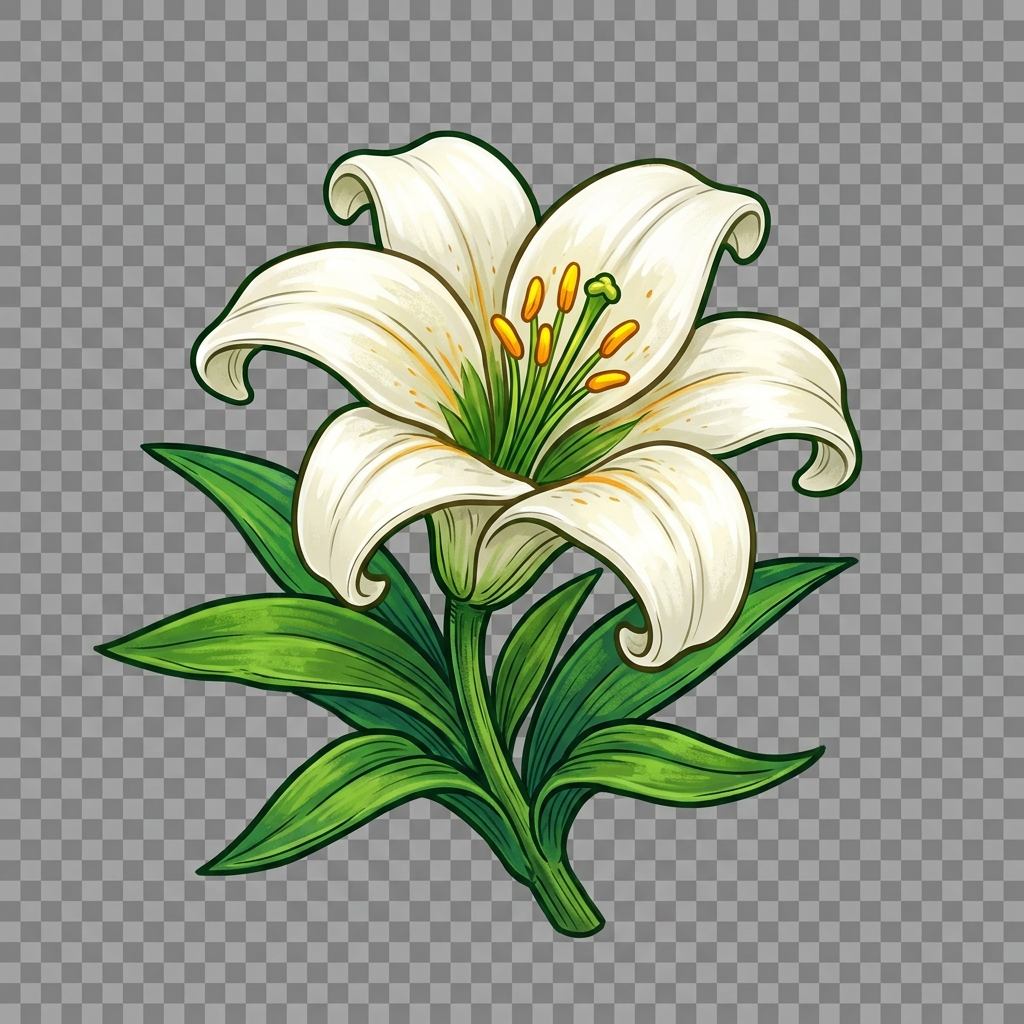
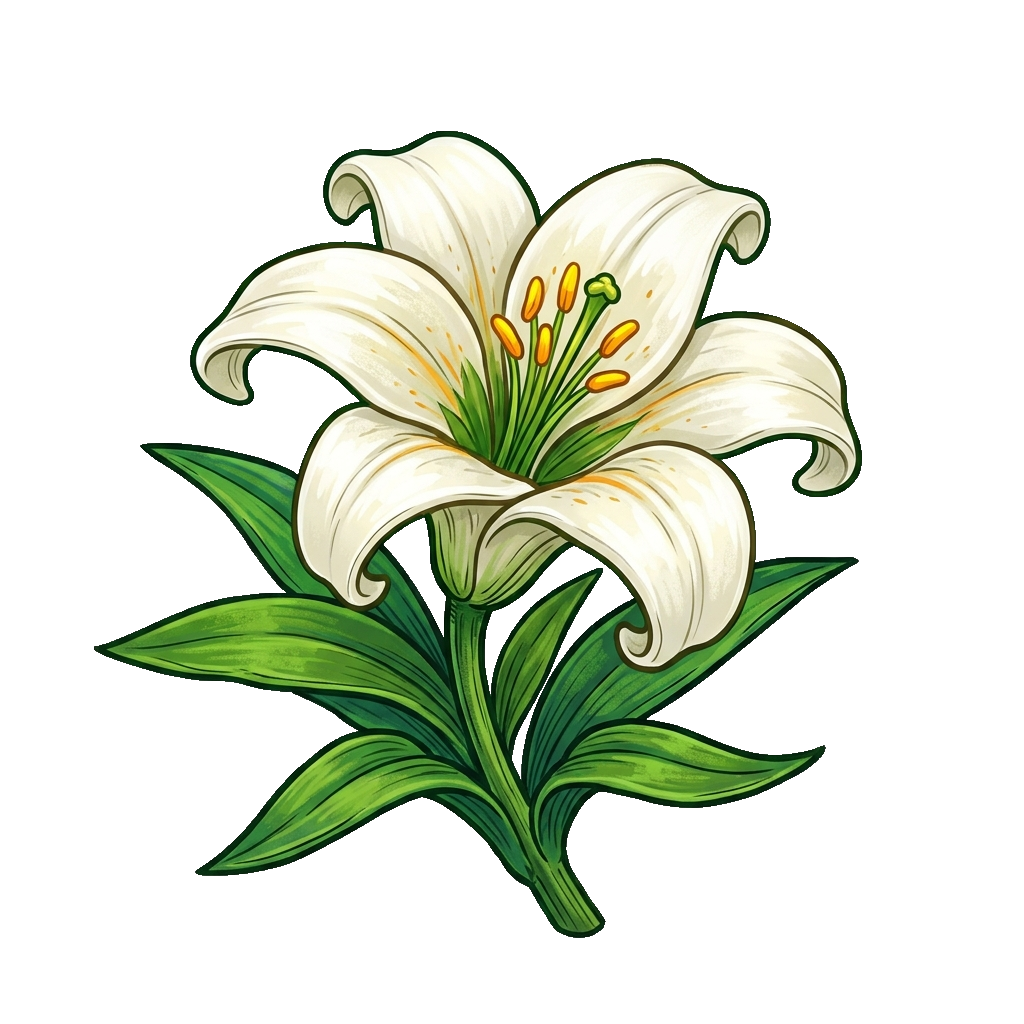
Update Farm UI for EasyM and new Forex assets

diff --git a/src/components/farm-hud.tsx b/src/components/farm-hud.tsx
@@ -80,6 +80,7 @@ type FarmHudProps = {
     todayClosedLots: number;
     dailyMaxDrawdown: number;
     isShaking?: boolean;
+    systemCode?: string;
     onClick?: () => void;
 };
 
@@ -99,6 +100,7 @@ export default function FarmHud({
     todayClosedLots,
     dailyMaxDrawdown,
     isShaking = false,
+    systemCode,
     onClick,
 }: FarmHudProps) {
     const [time, setTime] = useState<Date | null>(null);
@@ -271,7 +273,7 @@ export default function FarmHud({
                         <div className="flex justify-between items-end mb-1">
                             <div className="flex flex-col">
                                 <h1 className="text-[10px] sm:text-xs font-black text-[#cfa545] tracking-widest uppercase truncate leading-none mb-1">
-                                    <span className="hidden sm:inline">EasyGold Farming | </span>{assetType} | {portNumber} | {accountType}
+                                    <span className="hidden sm:inline">{systemCode?.toUpperCase().includes('EASYM') ? 'EasyM | ' : 'EasyGold Farming | '}</span>{assetType} | {portNumber} | {accountType}
                                 </h1>
                                 <div className="text-[10px] sm:text-sm font-bold tracking-wider text-[#0ea5e9]">
                                     <span className="text-[7px] sm:text-[8px] text-white/30 tracking-widest uppercase mr-1">EQUITY</span>